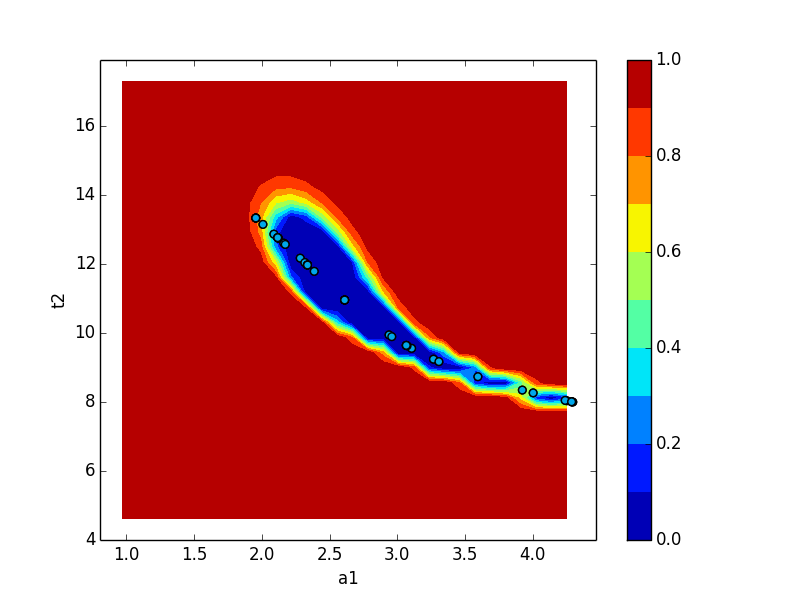
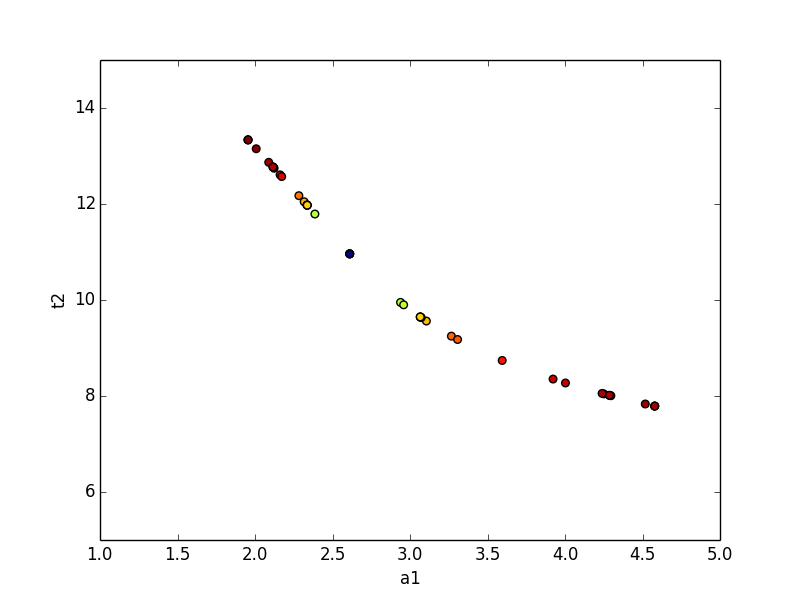
updated confidence docs

diff --git a/doc/confidence.rst b/doc/confidence.rst
@@ -65,23 +65,27 @@ We have to fit it, before we can generate the confidence intervals::
         C(a, b)                      =  0.601
 
 
-
 Now it just a simple function call to start the calculation::
 
     >>> ci = lmfit.conf_interval(mi)
-    >>>lmfit.printfuncs.report_ci(ci)
+    >>> lmfit.printfuncs.report_ci(ci)
          99.70%    95.00%    67.40%     0.00%    67.40%    95.00%    99.70%
     a   0.09960   0.09981   0.10000   0.10019   0.10039   0.10058   0.10079
     b   1.97035   1.98326   1.99544   2.00008   2.01936   2.03154   2.04445
 
 
-As we can see, the estimated error is almost the same:  it is not necessary to calculate ci's for this problem.
+As we can see, the estimated error is almost the same, and the
+uncertainties are well behaved: Going from 1 :math:`\sigma` (68%
+confidence) to 3 :math:`\sigma` (99.7% confidence) uncertainties is fairly
+linear.  For this problem, it is not necessary to calculate confidence
+intervals, and the estimates of the uncertainties from the covariance
+matrix are sufficient.
 
 An advanced example
 -------------------
 
-Now we look at a problem, where calculating the error from approximated
-covariance can lead to wrong results::
+Now we look at a problem where calculating the error from approximated
+covariance can lead to misleading results::
 
     >>> y = 3*np.exp(-x/2.)-5*np.exp(-x/10.)+0.2*np.random.randn(x.size)
     >>> p = lmfit.Parameters()
@@ -102,7 +106,7 @@ covariance can lead to wrong results::
 
 
 Again we call :func:`conf_interval`, this time with tracing and only for 1-
-and 2-sigma::
+and 2 :math:`\sigma`::
 
     >>> ci, trace = lmfit.conf_interval(mi, sigmas=[0.68,0.95], trace=True, verbose=False)
     >>> lmfit.printfuncs.report_ci(ci)
@@ -112,8 +116,13 @@ and 2-sigma::
     t2   8.00414   9.62688  12.17331  12.17886  13.34857
     t1   1.07009   1.28482   1.37407   1.97509   2.64341
 
-If you compare the calculated error estimates, you will see that the
-regular estimate is too small. Now let's plot a confidence region::
+Comparing these two different estimates, we see that the estimate for `a1`
+is reasonable well approximated from the covariance matrix, but the
+estimates for `a2`, `t1`, and `t2` are very asymmetric and that going from
+1 :math:`\sigma` (68% confidence) to 2 :math:`\sigma` (95% confidence) is
+not very predictable.
+
+Now let's plot a confidence region::
 
     >>> import matplotlib.pylab as plt
     >>> x, y, grid = lmfit.conf_interval2d(mi,'a1','t2',30,30)
@@ -129,15 +138,29 @@ which shows:
    :target: _images/conf_interval1.png
    :width: 85%
 
+If we do the same for parameters `a2` and `t2`:
 
-Remember the trace? It shows the dependence between two parameters::
+.. image:: _images/conf_interval1a.png
+   :target: _images/conf_interval1a.png
+   :width: 85%
+
+Neither of these is very much like an ellipse, which is implicitly
+assumed by the approach using the covariance matrix.
+
+Remember the trace? It shows also shows the dependence between two parameters::
 
     >>> x, y, prob = trace['a1']['a1'], trace['a1']['t2'],trace['a1']['prob']
     >>> x2, y2, prob2 = trace['t2']['t2'], trace['t2']['a1'],trace['t2']['prob']
     >>> plt.scatter(x, y, c=prob ,s=30)
     >>> plt.scatter(x2, y2, c=prob2, s=30)
+    >>> plt.gca().set_xlim((1, 5))
+    >>> plt.gca().set_ylim((5, 15))
+    >>> plt.xlabel('a1')
+    >>> plt.ylabel('t2')
+    >>> plt.show()
 
-which shows
+
+which shows the trace of values:
 
 .. image:: _images/conf_interval2.png
    :target: _images/conf_interval2.png
@@ -149,6 +172,3 @@ Documentation of methods
 
 .. autofunction:: lmfit.conf_interval
 .. autofunction:: lmfit.conf_interval2d
-
-
-
